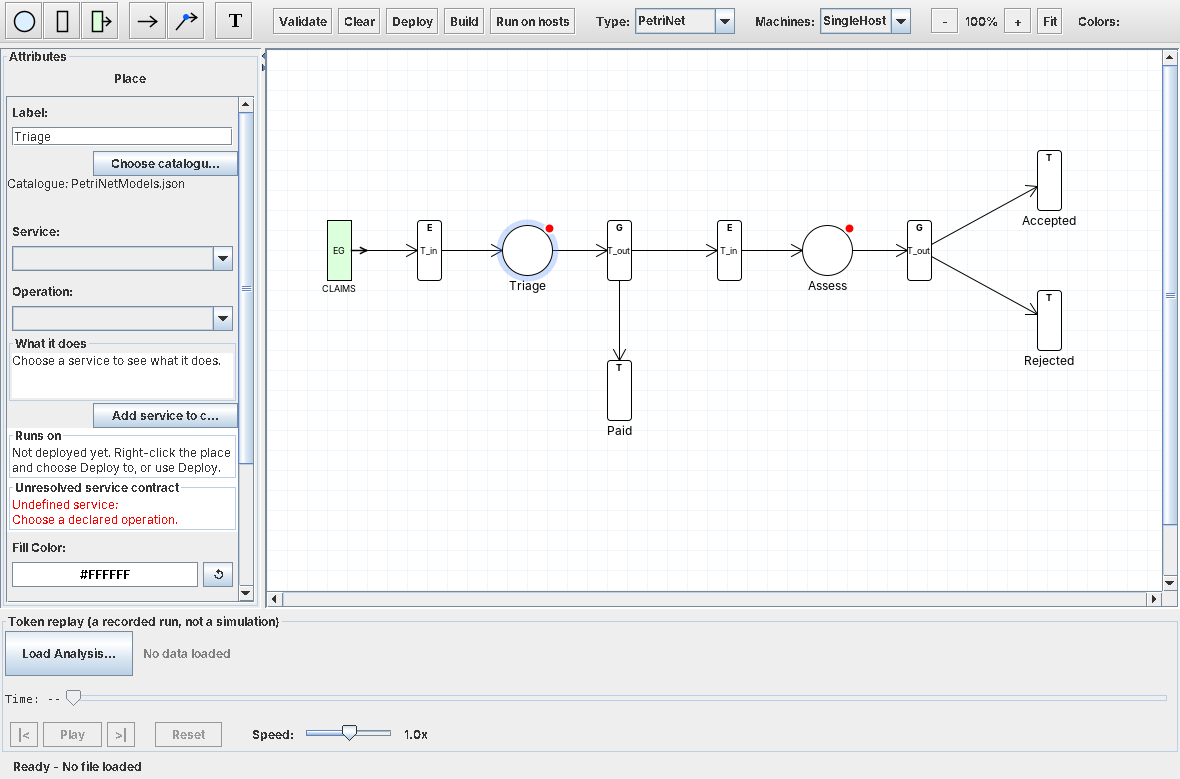
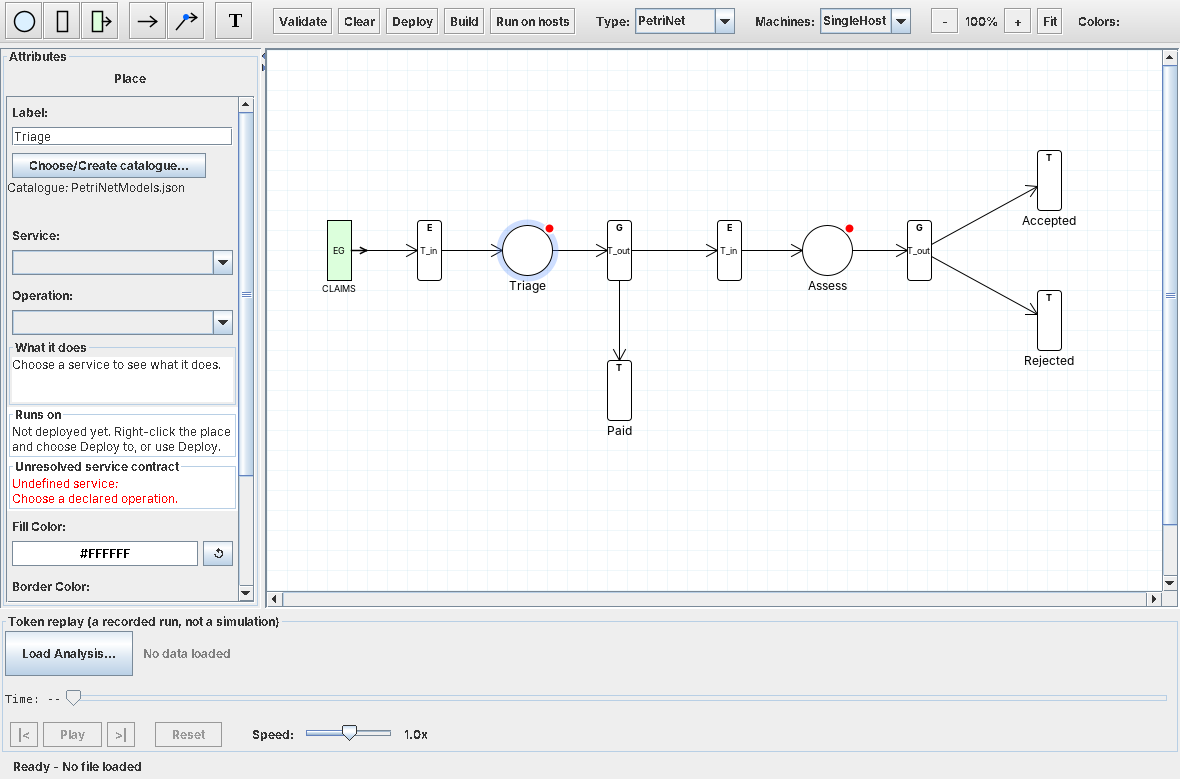
Standard catalogue: Choose/Create catalogue first, no Add or Edit service
- Attributes panel: Choose/Create catalogue... (left-aligned); no Add/Edit service button until the process has a domain catalogue
- A standard service is never offered as Edit service in catalogue
- Right-click on a place: Choose/Create catalogue..., with Add and Edit greyed out on the standard catalogue
- ServiceActionsCheck covers both states; Reference.md, ServiceTutorial.md and the sketch picture updated

Claude-Session: https://claude.ai/code/session_0151nDw2DdARiuD7yvK629N9

Changed region(s): [[0.0, 0.2773, 0.2136, 0.7702], [0.0, 0.1849, 0.2136, 0.2465], [0.1525, 0.6778, 0.2136, 0.7702]]

diff --git a/btsn.workflowEditor/tests/com/editor/ServiceActionsCheck.java b/btsn.workflowEditor/tests/com/editor/ServiceActionsCheck.java
@@ -1,0 +1,84 @@
+package com.editor;
+
+import java.awt.*;
+import java.io.File;
+import java.nio.file.Files;
+import java.util.*;
+import java.util.List;
+import javax.swing.*;
+
+/**
+ * On the standard catalogue a process has no services of its own: the Attributes panel offers Choose/Create catalogue
+ * but no Add or Edit service, and the place's right-click Add and Edit are greyed out. Once a domain's catalogue is
+ * chosen they come back, and Edit only for the place's own (not a standard) service.
+ */
+public final class ServiceActionsCheck {
+    public static void main(String[] args) throws Exception {
+        File common = new File(args[0], "btsn.common").getCanonicalFile();
+        File process = new File(common, "ProcessDefinitionFolder/claims/Workflow/Claims_Workflow.json");
+        Throwable[] failure = new Throwable[1];
+        SwingUtilities.invokeAndWait(() -> {
+            JFrame window = null;
+            try {
+                Canvas canvas = new Canvas();
+                canvas.loadFromJSON(new String(Files.readAllBytes(process.toPath()), "UTF-8").replaceAll("\"(serviceDeployment|catalog)\"\\s*:\\s*\"[^\"]*\"", "\"$1\": \"\""));
+                canvas.getServiceRegistry().useStandardCatalogue(common);
+                ServiceRegistry registry = canvas.getServiceRegistry();
+                check(!registry.hasDomainCatalogue(), "Not on the standard catalogue");
+                ProcessElement triage = null;
+                for (ProcessElement place : canvas.getPlaces()) if (place.getLabel().equals("Triage")) triage = place;
+                triage.setServiceInstance(""); triage.setServiceOperations(new ArrayList<>());
+                triage.setService("StochasticService"); registry.applyCatalogue(triage, "processToken");
+                window = new JFrame(); window.add(new JScrollPane(canvas)); window.setSize(1200, 650); window.setVisible(true);
+
+                // Standard catalogue: a standard service is not "Edit service in catalogue", and nothing can be added.
+                EditorFrame attributes = new EditorFrame(canvas); attributes.updateSelection(triage);
+                List<String> texts = texts(attributes);
+                check(texts.contains("Choose/Create catalogue...") && !texts.contains("Edit service in catalogue...") && !texts.contains("Add service to catalogue..."),
+                    "Standard catalogue attributes: " + texts);
+                Map<String, Boolean> menu = rightClick(canvas, triage);
+                check(Boolean.TRUE.equals(menu.get("Choose/Create catalogue...")) && Boolean.FALSE.equals(menu.get("Edit Service in Catalogue..."))
+                    && Boolean.FALSE.equals(menu.get("Add Service to Catalogue...")), "Standard catalogue menu: " + menu);
+
+                // The claims catalogue: Add comes back; Edit for the place's own service, not for a standard one.
+                canvas.useCatalogue(new File(common, "BusinessServiceDefinitions/claims/Claims.json"));
+                attributes.updateSelection(triage);
+                texts = texts(attributes);
+                check(texts.contains("Add service to catalogue...") && !texts.contains("Edit service in catalogue..."), "Domain catalogue, standard service: " + texts);
+                menu = rightClick(canvas, triage);
+                check(Boolean.TRUE.equals(menu.get("Add Service to Catalogue...")) && Boolean.FALSE.equals(menu.get("Edit Service in Catalogue...")), "Domain catalogue, standard service menu: " + menu);
+                triage.setServiceOperations(new ArrayList<>()); triage.setService("ClaimsTriageService"); registry.applyCatalogue(triage, "triage");
+                attributes.updateSelection(triage);
+                check(texts(attributes).contains("Edit service in catalogue..."), "Own service not editable: " + texts(attributes));
+                menu = rightClick(canvas, triage);
+                check(Boolean.TRUE.equals(menu.get("Edit Service in Catalogue...")) && Boolean.TRUE.equals(menu.get("Add Service to Catalogue...")), "Own service menu: " + menu);
+            } catch (Throwable ex) {
+                failure[0] = ex;
+            } finally {
+                if (window != null) window.dispose();
+            }
+        });
+        if (failure[0] != null) throw new AssertionError("Service actions", failure[0]);
+        System.out.println("PASS: on the standard catalogue, Choose/Create catalogue only: no Add or Edit service button, right-click Add and Edit greyed out; with a domain catalogue Add returns, and Edit for the place's own service only");
+    }
+
+    /** The place's right-click menu: each item's text and whether it is enabled. */
+    private static Map<String, Boolean> rightClick(Canvas canvas, ProcessElement place) {
+        Point centre = place.getCenter();
+        canvas.dispatchEvent(new java.awt.event.MouseEvent(canvas, java.awt.event.MouseEvent.MOUSE_CLICKED, System.currentTimeMillis(),
+            java.awt.event.InputEvent.BUTTON3_DOWN_MASK, centre.x, centre.y, 1, true, java.awt.event.MouseEvent.BUTTON3));
+        Map<String, Boolean> items = new LinkedHashMap<>();
+        for (Component c : canvas.lastContextMenu.getComponents()) if (c instanceof JMenuItem) items.put(((JMenuItem)c).getText(), c.isEnabled());
+        canvas.lastContextMenu.setVisible(false);
+        return items;
+    }
+    private static List<String> texts(Container parent) {
+        List<String> result = new ArrayList<>();
+        for (Component c : parent.getComponents()) {
+            if (c instanceof AbstractButton) result.add(((AbstractButton)c).getText());
+            if (c instanceof Container) result.addAll(texts((Container)c));
+        }
+        return result;
+    }
+    private static void check(boolean condition, String message) { if (!condition) throw new AssertionError(message); }
+}

diff --git a/btsn.workflowEditor/src/com/editor/EditorFrame.java b/btsn.workflowEditor/src/com/editor/EditorFrame.java
@@ -630,6 +630,14 @@ public class EditorFrame extends JPanel {
         attributesPanel.add(panel);
     }
     
+    /** A button on its own row, left-aligned with the fields (a bare button in the panel starts at its centre line). */
+    private void addButtonRow(JButton button) {
+        JPanel row = new JPanel(new FlowLayout(FlowLayout.LEFT, 5, 2));
+        row.add(button);
+        row.setMaximumSize(new Dimension(Integer.MAX_VALUE, row.getPreferredSize().height));
+        attributesPanel.add(row);
+    }
+
     private void addComboField(String labelText, JComboBox<String> combo, String value) {
         JPanel panel = new JPanel(new BorderLayout(5, 5));
         panel.setMaximumSize(new Dimension(Integer.MAX_VALUE, 60));
@@ -762,12 +770,16 @@ public class EditorFrame extends JPanel {
     /**
      * Add the operations field with collapsible arguments support
      */
+    /** The button (and menu item) that keeps the standard catalogue or chooses or creates the domain's. */
+    static final String CHOOSE_CREATE_CATALOGUE = "Choose/Create catalogue...";
+
     private void addServiceSelection(ProcessElement element) {
         ServiceRegistry registry = canvas.getServiceRegistry();
         // Designing needs only the catalogue; where each place runs is decided later with Deploy.
-        JButton choose = new JButton("Choose catalogue...");
+        JButton choose = new JButton(CHOOSE_CREATE_CATALOGUE);
+        choose.setToolTipText("Keep the standard catalogue, or choose or create the catalogue of this process's domain to add services of its own.");
         choose.addActionListener(e -> { canvas.chooseCatalogue(this); updateSelection(element); });
-        attributesPanel.add(choose);
+        addButtonRow(choose);
         String sourceText = registry.problem() != null ? registry.problem()
             : "Catalogue: " + registry.catalogueFile().getName() + (registry.hasDeployment() ? "\nDeployment: " + registry.deploymentFile().getName() : "");
         JTextArea source = new JTextArea(sourceText);
@@ -790,11 +802,14 @@ public class EditorFrame extends JPanel {
         addComboField("Operation:", operations, op);
         addWhatItDoes(registry, element.getService(), op);
         // A service the catalogue lacks is described from here (or the place's right-click menu); a draft is finished the same way.
-        boolean ownService = registry.domainContract(element) != null;
-        JButton defineService = new JButton(ownService ? "Edit service in catalogue..." : "Add service to catalogue...");
-        defineService.setToolTipText("Describe a service this place needs that is not in the catalogue yet; you can keep designing while it is a draft.");
-        defineService.addActionListener(e -> { if (ServiceDefinitionDialog.open(this, canvas, element, ownService)) updateSelection(element); });
-        attributesPanel.add(defineService);
+        // Only a domain's catalogue takes services: on the standard catalogue, Choose/Create catalogue comes first.
+        if (registry.hasDomainCatalogue()) {
+            boolean ownService = registry.domainContract(element) != null;
+            JButton defineService = new JButton(ownService ? "Edit service in catalogue..." : "Add service to catalogue...");
+            defineService.setToolTipText("Describe a service this place needs that is not in the catalogue yet; you can keep designing while it is a draft.");
+            defineService.addActionListener(e -> { if (ServiceDefinitionDialog.open(this, canvas, element, ownService)) updateSelection(element); });
+            addButtonRow(defineService);
+        }
         operations.addActionListener(e -> {
             String value = (String)operations.getSelectedItem();
             if (!registry.operations(element.getService()).contains(value)) return;

diff --git a/btsn.workflowEditor/src/com/editor/Canvas.java b/btsn.workflowEditor/src/com/editor/Canvas.java
@@ -1199,12 +1199,20 @@ public class Canvas extends JPanel {
             addDeployMenu(menu, place);
             menu.addSeparator();
             // The place's own service is seen and finished from here; a service the catalogue lacks is added from here too.
-            if (serviceRegistry.domainContract(place) != null) {
-                JMenuItem editService = new JMenuItem("Edit Service in Catalogue...");
-                editService.addActionListener(ev -> ServiceDefinitionDialog.open(this, this, place, true));
-                menu.add(editService);
-            }
+            // Only a domain's catalogue takes services, so on the standard catalogue both wait for Choose/Create catalogue.
+            boolean domain = serviceRegistry.hasDomainCatalogue();
+            String first = "The standard catalogue is not changed: choose or create this process's catalogue first.";
+            JMenuItem chooseCatalogue = new JMenuItem(EditorFrame.CHOOSE_CREATE_CATALOGUE);
+            chooseCatalogue.addActionListener(ev -> chooseCatalogue(this));
+            menu.add(chooseCatalogue);
+            JMenuItem editService = new JMenuItem("Edit Service in Catalogue...");
+            editService.setEnabled(serviceRegistry.domainContract(place) != null);
+            if (!domain) editService.setToolTipText(first);
+            editService.addActionListener(ev -> ServiceDefinitionDialog.open(this, this, place, true));
+            menu.add(editService);
             JMenuItem addService = new JMenuItem("Add Service to Catalogue...");
+            addService.setEnabled(domain);
+            if (!domain) addService.setToolTipText(first);
             addService.addActionListener(ev -> ServiceDefinitionDialog.open(this, this, place, false));
             menu.add(addService);
             menu.addSeparator();

diff --git a/btsn.workflowEditor/tests/com/editor/DeployFlowCheck.java b/btsn.workflowEditor/tests/com/editor/DeployFlowCheck.java
@@ -164,7 +164,7 @@ public final class DeployFlowCheck {
                 // Attributes panel offers the catalogue and shows where the place runs.
                 EditorFrame attributes = new EditorFrame(canvas); attributes.updateSelection(places.get("NS_Yellow"));
                 List<String> texts = texts(attributes);
-                check(texts.contains("Choose catalogue...") && !texts.contains("Choose service deployment..."), "Attributes still ask for a deployment first");
+                check(texts.contains("Choose/Create catalogue...") && !texts.contains("Choose service deployment..."), "Attributes still ask for a deployment first");
                 check(texts.stream().anyMatch(t -> t.startsWith("P6")), "Attributes do not show the node: " + texts);
                 check(texts.stream().anyMatch(t -> t.startsWith("Decides at random") && t.contains("Returns: true or false")), "Attributes do not say what the service does: " + texts);
                 // What it does: three lines in the fields' font, scrolling rather than pushing the design fields down.

diff --git a/btsn.workflowEditor/src/com/editor/ServiceRegistry.java b/btsn.workflowEditor/src/com/editor/ServiceRegistry.java
@@ -258,7 +258,8 @@ public final class ServiceRegistry {
     }
     /** The place's service as an entry of the process's own catalogue (draft or finished), or null (none, or standard). */
     public Contract domainContract(ProcessElement place) {
-        if (place.getOperations().isEmpty()) return null;
+        // On the standard catalogue alone a process has no services of its own: the standard ones are never edited.
+        if (!hasDomainCatalogue() || place.getOperations().isEmpty()) return null;
         Contract c = contract(place.getService(), place.getOperations().get(0));
         return c == null || c.standard ? null : c;
     }

diff --git a/Reference.md b/Reference.md
@@ -38,7 +38,7 @@ explains each step on a single place.
 | Step | How | Walkthrough |
 |---|---|---|
 | **1 · Sketch** | Draw the places, transitions and arcs. Transitions become T_in or T_out from their arcs; labels are free | [Sketch the process](#step-1-sketch-the-process) |
-| **2 · Add services as you go** | Right-click a place and add its service to the catalogue of the process's domain (the editor creates the catalogue the first time). Give a name, an operation and the values it routes on; the editor writes starting code that keeps the contract and returns those values in turn, or leaves a draft to finish later. A finished service is chosen from the catalogue instead | [Add the first service](#step-2-add-the-first-service), [Choose the service](#choose-the-service-and-operation) |
+| **2 · Add services as you go** | Choose or create the catalogue of the process's domain, then right-click a place and add its service to it. Give a name, an operation and the values it routes on; the editor writes starting code that keeps the contract and returns those values in turn, or leaves a draft to finish later. A finished service is chosen from the catalogue instead | [Add the first service](#step-2-add-the-first-service), [Choose the service](#choose-the-service-and-operation) |
 | **3 · Validate** | Before anything runs, Validate checks the guards against the values each service returns, the names passed from place to place, drafts, and transitions that lead nowhere | [Validate and save](#step-5-validate-and-save) |
 | **4 · Deploy** | Choose the node (host) each place runs on and save the service deployment | [Deploy the process](#2-deploy-the-process) |
 | **5 · Build and Run** | The editor writes an Ant launcher: the hosts, the event generators with their versions, and the token schedule | [Create Build and Run](#3-create-build-and-run) |
@@ -100,16 +100,16 @@ and `T_out_Assess → Rejected`.
 - **Gateways route.** A T_out with `GatewayNode` sends each token along the arc whose guard
   matches what the place's service returned. You set the guards in [step 4](#step-4-set-the-guards).
 
-![The claims sketch in ProcessEditor: CLAIMS feeds T_in, place Triage, T_out, which leads to Paid and to T_in, place Assess and T_out, which leads to Accepted and Rejected. Triage is selected; its Attributes panel shows the standard catalogue PetriNetModels.json, no service chosen, the button Add service to catalogue, and the unresolved contract in red.](images/claims-sketch.png)
+![The claims sketch in ProcessEditor: CLAIMS feeds T_in, place Triage, T_out, which leads to Paid and to T_in, place Assess and T_out, which leads to Accepted and Rejected. Triage is selected; its Attributes panel shows the standard catalogue PetriNetModels.json, no service chosen, the button Choose/Create catalogue, and the unresolved contract in red.](images/claims-sketch.png)
 
 *The sketch. The red dot on a place means it has no service yet.*
 
 ### Step 2: Add the first service
 
-Right-click **Triage** and choose **Add Service to Catalogue...** (or click
-**Add service to catalogue...** in its Attributes panel).
-
-**Choose the catalogue.** The first service of a process needs a catalogue to hold it.
+**Choose the catalogue.** A new process uses only the standard catalogue, which is never
+changed, so a service of its own needs a catalogue to hold it first. Until then **Add Service
+to Catalogue...** is greyed out. Click **Choose/Create catalogue...** in Triage's Attributes
+panel (or right-click Triage and choose it).
 A catalogue belongs to a **domain**: every process of the domain shares it, so a service
 is written once and used by each of them.
 
@@ -124,6 +124,9 @@ Choose **Create a catalogue for a new domain**, type `claims` and click **OK**. 
 A process of an existing domain (credit, healthcare, ...) uses **Select an existing catalogue** instead.
 Either way, the standard Petri-net services (`StochasticService`, `AlwaysTrueService`) stay
 available beside the catalogue, unchanged.
+
+**Add the service.** Right-click **Triage** and choose **Add Service to Catalogue...** (or click
+**Add service to catalogue...** in its Attributes panel).
 
 **Describe the service.** The form opens with what it can suggest:
 

diff --git a/ServiceTutorial.md b/ServiceTutorial.md
@@ -144,7 +144,9 @@ You do not need to leave the editor ([Adding services while designing](Reference
 works through it for a whole process):
 
 1. Draw the place, then right-click it and choose **Add Service to Catalogue...** (or use
-   **Add service to catalogue...** under the place's Service).
+   **Add service to catalogue...** under the place's Service). On a new process, choose
+   **Choose/Create catalogue...** first: the standard catalogue is never changed, so Add waits
+   until the process has a catalogue of its own.
 2. Give the service and its operation a name. Everything else can follow: what it does, what it
    returns, its inputs and return attribute (suggested to match the places around it), and the
    values it routes on.
@@ -210,8 +212,8 @@ Start (or restart) the editor so that it reads the new catalogue. Then choose **
 | Transition | `Approved` | Transition Type: `Other`; Node Type: `TerminateNode` |
 | Transition | `Referred` | Transition Type: `Other`; Node Type: `TerminateNode` |
 
-If the **Service** list is empty, click **Choose catalogue...** and open
-`BusinessServiceDefinitions/credit/Credit.json`. Selecting the place shows the
+If the **Service** list is empty, click **Choose/Create catalogue...** and select the
+credit catalogue, `Credit.json`. Selecting the place shows the
 description from your catalogue and the contract `assess(token) → creditDecision`.
 
 | Source | Target | Guard Condition | Decision Value |
